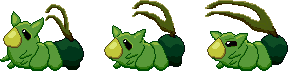
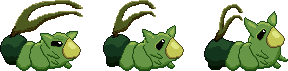
#implementacion de una pequela inteligencia artificial a Perruga. #cambios en las imagenes de los enemigos #cambio en la funcion de actualizar en el main.py #y mas.

diff --git a/src/vistas/personajes/enemigos/perruga_grafica.py b/src/vistas/personajes/enemigos/perruga_grafica.py
@@ -1,4 +1,5 @@
 import pygame
+import math
 from src.vistas.personajes.personaje_grafico import PersonajeGrafico
 
 class PerrugaGrafica(PersonajeGrafico):
@@ -9,6 +10,7 @@ class PerrugaGrafica(PersonajeGrafico):
         # =========================
         # ANIMACIONES
         # =========================
+        # Nota: Ajusté los frames a los números que me pasaste (2, 3, 5)
         self.cargar_animacion("walk", "src/assets/images/personajes/enemigos/perruga/perruga-walk.png", 2, 150, 150)
         self.cargar_animacion("attack", "src/assets/images/personajes/enemigos/perruga/perruga-attack.png", 3, 150, 150)
         self.cargar_animacion("death", "src/assets/images/personajes/enemigos/perruga/perruga-death.png", 5, 150, 150)
@@ -16,11 +18,32 @@ class PerrugaGrafica(PersonajeGrafico):
         self.image = self.animaciones["walk"][0]
 
         # =========================
-        # HITBOX (Controlada por la Vista)
+        # HITBOX
         # =========================
         rect_imagen = self.image.get_rect(topleft=(x, y))
         self.rect = pygame.Rect(0, 0, 80, 80)
         self.rect.center = rect_imagen.center
+
+        # =========================
+        # 🔧 CONFIGURACIÓN DE VELOCIDAD DE FRAMES (Milisegundos)
+        # =========================
+        # Cuanto MENOR sea el número, MÁS RÁPIDO pasarán los frames.
+        self.vel_animacion_patrulla = 180    # Lento y pausado al patrullar
+        self.vel_animacion_alerta = 90       # Rápido y frenético al perseguir o atacar
+        
+        # Asignamos la velocidad inicial
+        self.velocidad_animacion = self.vel_animacion_patrulla 
+
+        # =========================
+        # CONFIGURACIÓN DE PATRULLA EN PÍXELES
+        # =========================
+        self.x_inicial = self.rect.x       
+        self.rango_patrulla = 250          
+        self.direccion_x = 1               
+
+        self.velocidad_patrulla = 1.0      
+        self.velocidad_persecucion = 1.8   
+        self.radio_vision = 300            
 
         # =========================
         # ESTADOS Y DAÑO
@@ -33,10 +56,7 @@ class PerrugaGrafica(PersonajeGrafico):
         self.vel_y = 0
         self.gravedad = 0.5
 
-        # Velocidad de caminata en píxeles de la vista
-        self.velocidad_patrulla = 2 
-
-    def actualizar(self):
+    def actualizar(self, jugador=None):
         # Detectar daño por vida del modelo
         if self.modelo._vida < self.vida_anterior:
             self.recibiendo_danio = True
@@ -46,21 +66,56 @@ class PerrugaGrafica(PersonajeGrafico):
         if self.modelo.estaVivo():
             self.cambiar_estado("walk")
             
-            # Ejecuta la lógica matemática de su patrulla
-            self.modelo.moverse() 
+            perseguiendo = False
+            
+            # --- INTELIGENCIA ARTIFICIAL(Argentina) (PERSECUCIÓN) ---
+            if jugador is not None and jugador.modelo.estaVivo():
+                distancia_x = jugador.rect.centerx - self.rect.centerx
+                distancia_y = jugador.rect.centery - self.rect.centery
+                distancia = math.sqrt(distancia_x**2 + distancia_y**2)
+                
+                if distancia <= self.radio_vision:
+                    perseguiendo = True
+                    
+                    # Ajustamos la velocidad de la animación para que se vea más rápido
+                    self.velocidad_animacion = self.vel_animacion_alerta
+                    
+                    if distancia_x > 0:
+                        self.mirando_derecha = True
+                        self.rect.x += self.velocidad_persecucion
+                    elif distancia_x < 0:
+                        self.mirando_derecha = False
+                        self.rect.x -= self.velocidad_persecucion
 
-            # Sincronizar la dirección del sprite con el modelo lógico (1 o -1)
-            if getattr(self.modelo, 'direccion', 1) == 1:
-                self.mirando_derecha = True
-                self.rect.x += self.velocidad_patrulla
-            else:
-                self.mirando_derecha = False
-                self.rect.x -= self.velocidad_patrulla
+            # --- PATRULLA NORMAL EN PÍXELES ---
+            if not perseguiendo:
+                # Volvemos a la velocidad de animación más lenta de patrulla
+                self.velocidad_animacion = self.vel_animacion_patrulla
+
+                # Mover en la dirección actual
+                self.rect.x += self.velocidad_patrulla * self.direccion_x
+
+                # Sincronizar SIEMPRE la mirada con la dirección del movimiento
+                if self.direccion_x == 1:
+                    self.mirando_derecha = True
+                else:
+                    self.mirando_derecha = False
+
+                # Comprobar si se alejó mucho de su punto inicial
+                if self.rect.x >= self.x_inicial + self.rango_patrulla:
+                    self.direccion_x = -1
+                    self.mirando_derecha = False
+                elif self.rect.x <= self.x_inicial - self.rango_patrulla:
+                    self.direccion_x = 1
+                    self.mirando_derecha = True
         else:
             self.cambiar_estado("death")
-            self.vel_y += self.gravedad
+            # Al morir, también puedes ajustar su velocidad si los 5 frames van muy lento/rápido
+            self.velocidad_animacion = 300 
+            
             self.rect.y += self.vel_y
 
+        # Aquí es donde el PersonajeGrafico usa el valor que acabamos de modificar:
         self.update_animacion(16)
 
     def dibujar(self, pantalla):

diff --git a/src/modelos/personajes/enemigos/perruga.py b/src/modelos/personajes/enemigos/perruga.py
@@ -5,21 +5,21 @@ de manera agresiva hacia Hoku, detectándolo y atacándolo. Es un enemigo común
 
 class Perruga(Enemigo):
 
-    def __init__(self):
+    def __init__(self, limite_izq=0, limite_der=30):
         super().__init__("Perruga", 3, 1)
-        self.posicion = 0
+        self.posicion = limite_izq
         self.direccion = 1  # 1 = derecha, -1 = izquierda
-        self.limite_izq = 0
-        self.limite_der = 10
+        self.limite_izq = limite_izq
+        self.limite_der = limite_der
 
     def moverse(self):
-        if self.estaVivo(): # <--- AGREGAR ESTO
-            self.posicion += self.direccion
+        if self.estaVivo():
+            pass
+      #  if self.estaVivo():
+       #     self.posicion += self.direccion
 
-            if self.posicion >= self.limite_der or self.posicion <= self.limite_izq:
-                self.direccion *= -1 
-
-            print(f"{self.nombre} patrulla en posición {self.posicion}")
+        #    if self.posicion >= self.limite_der or self.posicion <= self.limite_izq:
+         #       self.direccion *= -1
 
     def ataque_especial(self, objetivo):
         """Metodo que permite a Perruga realizar un ataque especial desde abajo de la tierra,

diff --git a/src/vistas/personajes/hoku/hoku_grafico.py b/src/vistas/personajes/hoku/hoku_grafico.py
@@ -74,11 +74,6 @@ class HokuGrafico(PersonajeGrafico):
             # Movimiento horizontal
             self.rect.x += dx
 
-            # 🔧 NOTA: se eliminó la colisión horizontal con enemigos.
-            # Los enemigos NO deben empujar a Hoku como si fueran paredes,
-            # porque eso impedía que los rects se superpongan y rompía
-            # la detección de daño por contacto en el GameController.
-
             # Colisión horizontal con plataformas
             for plataforma in plataformas:
 
@@ -118,10 +113,6 @@ class HokuGrafico(PersonajeGrafico):
             # Gravedad
             self.vel_y  += self.gravedad
             self.rect.y += self.vel_y
-
-            # 🔧 NOTA: se eliminó la colisión vertical con enemigos por la
-            # misma razón que arriba. El daño por contacto se maneja
-            # exclusivamente en GameController.actualizar().
 
             # Colisión vertical con plataformas
             for plataforma in plataformas:

diff --git a/src/vistas/escenarios/escenario.py b/src/vistas/escenarios/escenario.py
@@ -39,10 +39,19 @@ class Escenario:
     # =========================
     # ACTUALIZAR
     # =========================
-    def actualizar(self):
-
+    def actualizar(self, jugador=None):
+        """
+        Actualiza todas las entidades del escenario.
+        Recibe opcionalmente al jugador (Hoku) para que los enemigos 
+        puedan ejecutar su IA de persecución o ataque.
+        """
         for enemigo in self.enemigos:
-            enemigo.actualizar()
+            # Intentamos pasarle el jugador. Si el enemigo acepta el parámetro, lo usará.
+            try:
+                enemigo.actualizar(jugador)
+            except TypeError:
+                # Por si acaso algún enemigo viejo quedó sin el parámetro jugador
+                enemigo.actualizar()
         
         for plataforma in self.plataformas:
             if hasattr(plataforma, "update"):

diff --git a/src/main.py b/src/main.py
@@ -157,7 +157,7 @@ class GameController:
             self.gestor_escenarios.escenario_actual
         )
 
-        escenario_actual.actualizar()
+        escenario_actual.actualizar(self.hoku_vista)
 
         # =========================
         # ENEMIGOS DEL ESCENARIO
@@ -259,7 +259,7 @@ class GameController:
 
             for enemigo in enemigos:
 
-                if self.hoku_vista.rect.colliderect(enemigo.rect):
+                if self.hoku_vista.rect.colliderect(enemigo.rect) and enemigo.modelo.estaVivo():
 
                     # enemigo daña a Hoku
                     enemigo.modelo.atacar(
